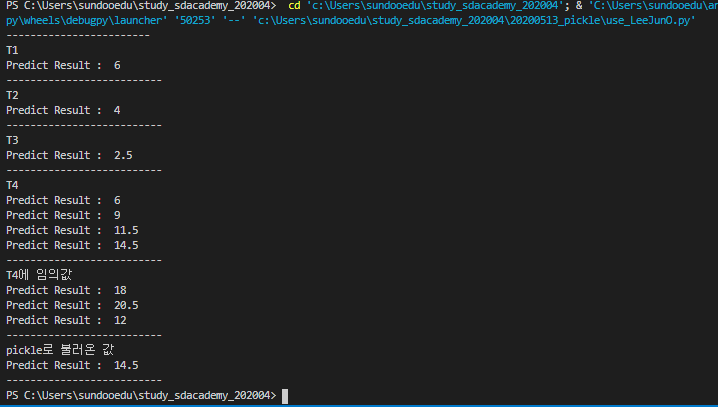
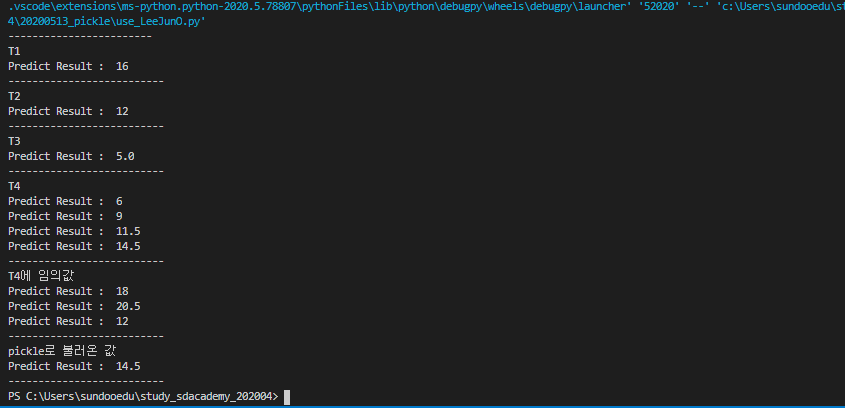
juno

Changed region(s): [[0.0, 0.0, 1.0, 0.914], [0.0, 0.9435, 0.3983, 1.0]]

diff --git a/20200513_pickle/use_LeeJunO.py b/20200513_pickle/use_LeeJunO.py
@@ -6,17 +6,17 @@ from packages.class_LeeJunO import T4
 #T1 기존값
 print("------------------------")
 print("T1")
-x1 = T1(3)
+x1 = T1(8)
 x1.getPredict()
 print("--------------------------")
 print("T2")
 #T2 기존값
-x2 = T2(1,3)
+x2 = T2(5,7)
 x2.getPredict()
 print("--------------------------")
 print("T3")
 #T3 기존값
-x3 = T3(1)
+x3 = T3(6)
 x3.getPredict()
 print("--------------------------")
 print("T4")
